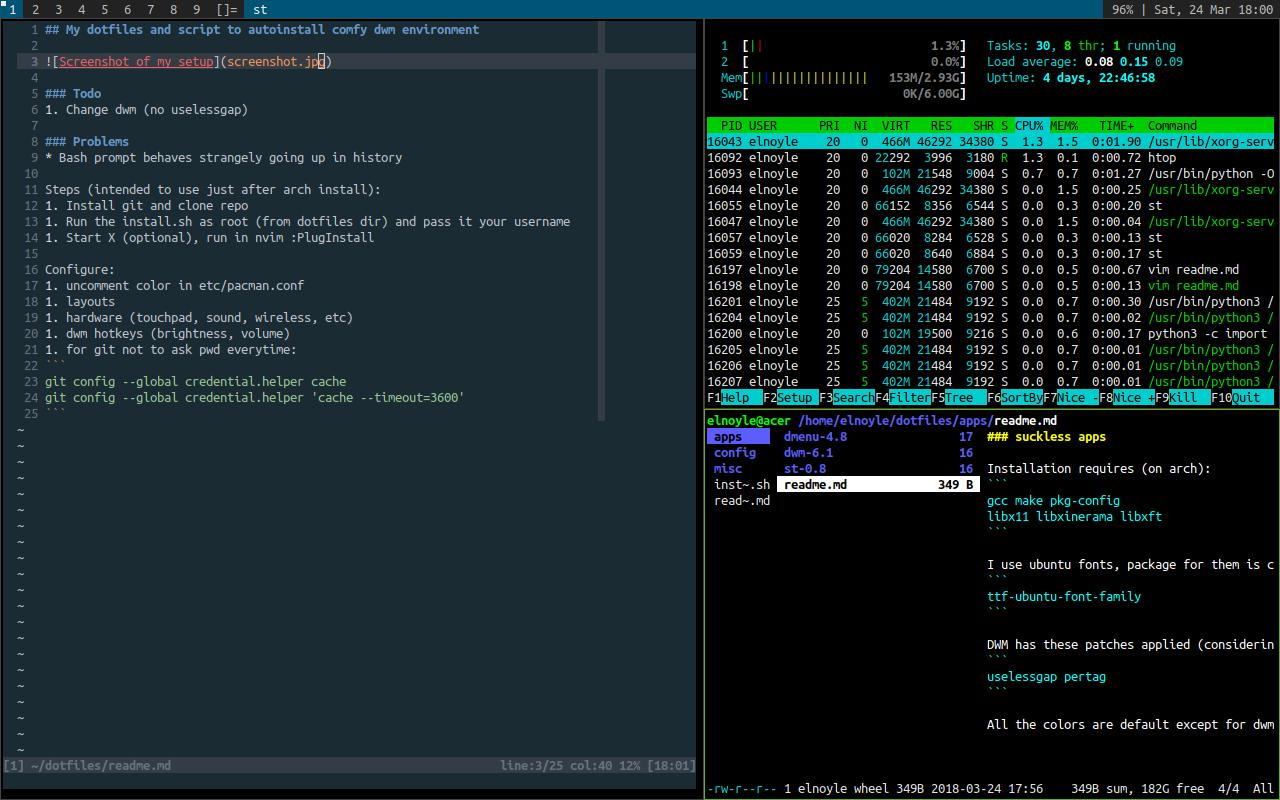
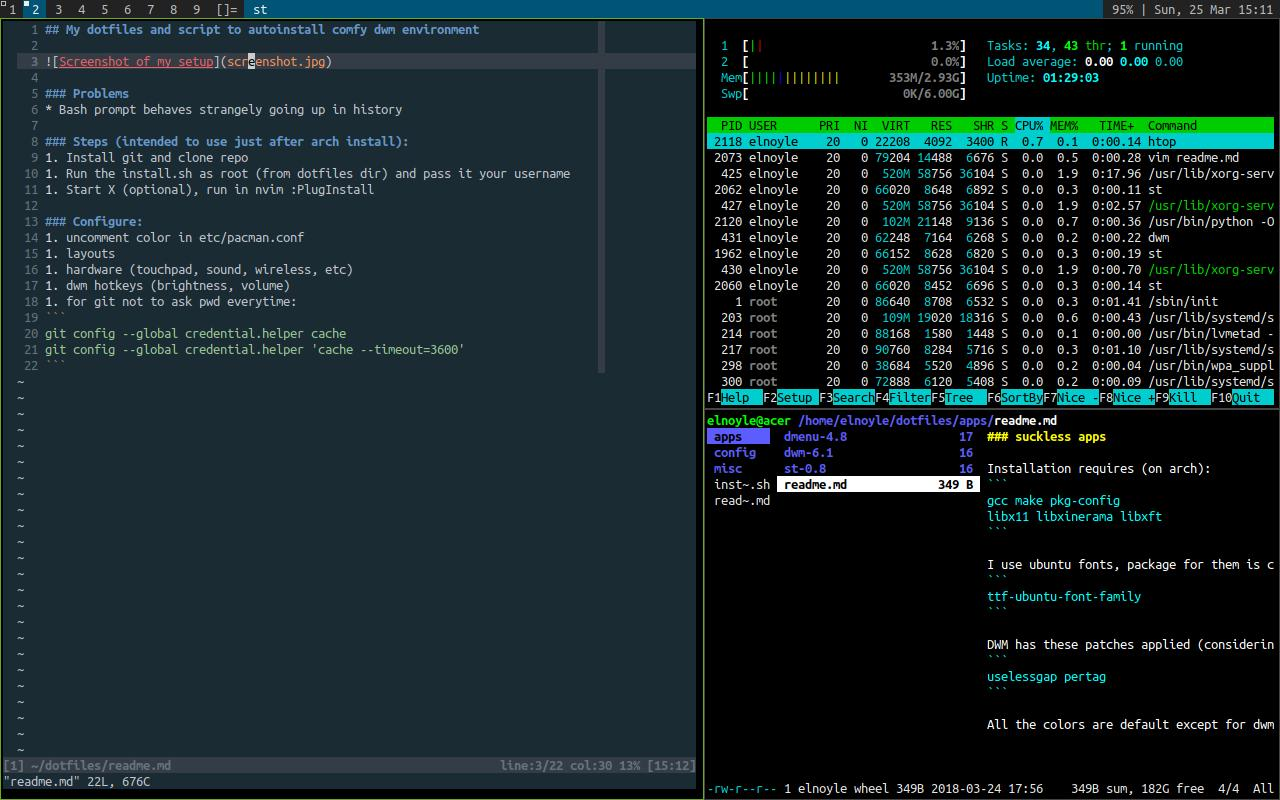
small fix

diff --git a/readme.md b/readme.md
@@ -5,12 +5,12 @@
 ### Problems
 * Bash prompt behaves strangely going up in history
 
-Steps (intended to use just after arch install):
+### Steps (intended to use just after arch install):
 1. Install git and clone repo
 1. Run the install.sh as root (from dotfiles dir) and pass it your username
 1. Start X (optional), run in nvim :PlugInstall
 
-Configure:
+### Configure:
 1. uncomment color in etc/pacman.conf
 1. layouts
 1. hardware (touchpad, sound, wireless, etc)
